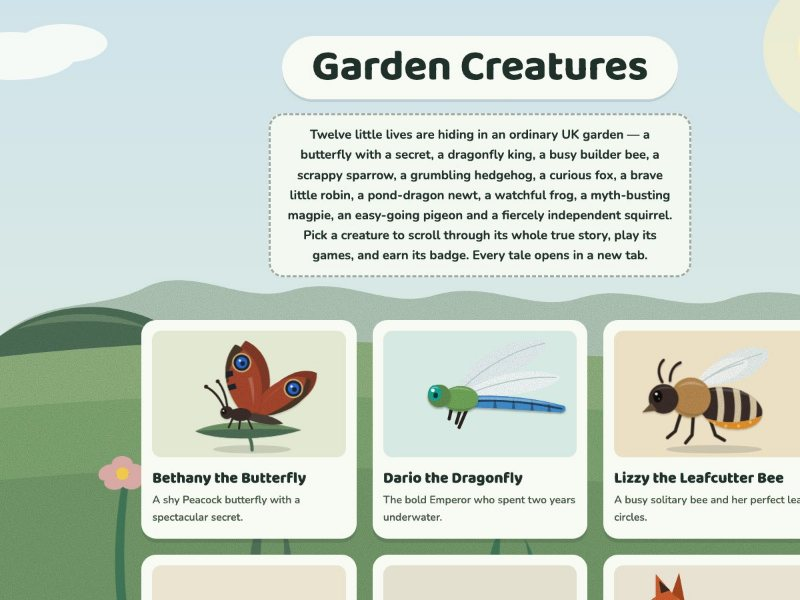
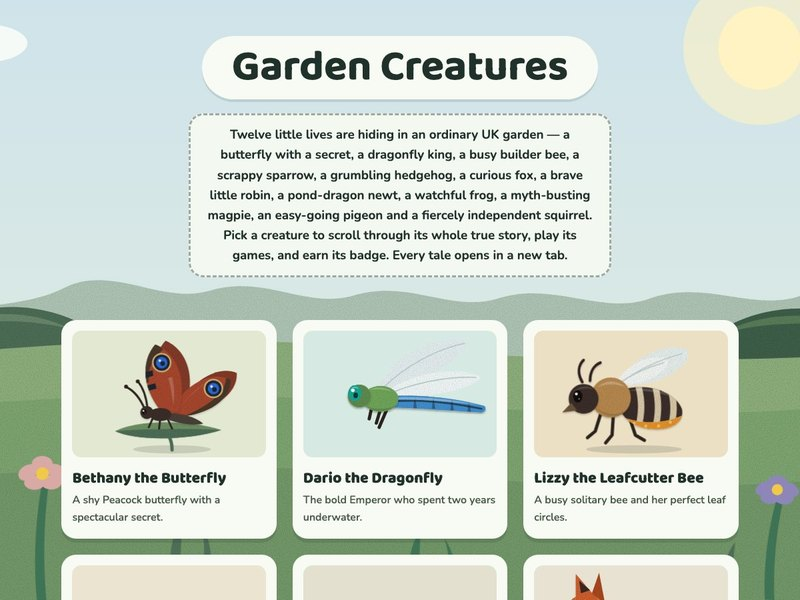
Recentre UK Garden Creatures lab thumbnail
Claude-Session: https://claude.ai/code/session_01CJsRGXUtQTrvnDXWt471hY

diff --git a/lab/cards.js b/lab/cards.js
@@ -36,7 +36,7 @@ window.LAB_CARDS.push({
     craft: 'What I make now: a set of illustrated, animated stories for children, built with Claude Code and Cowork.',
     lead: 'How I took one idea to a reusable format and tested it with children before showing it to a school.'
   },
-  thumb: '../images/uk-garden-creatures/thumb.jpg',
+  thumb: '../images/uk-garden-creatures/thumb.jpg?v=2',
   thumbAlt: 'The Garden Creatures landing page with cards for a butterfly, a dragonfly and a leafcutter bee on a green hill',
   status: 'In testing',
   updated: '2026-11-18'

diff --git a/lab.html b/lab.html
@@ -40,7 +40,7 @@
   </div>
 </footer>
 <script src="./main.js?v=20261120f"></script>
-<script src="./lab/cards.js?v=20261118b"></script>
+<script src="./lab/cards.js?v=20261120b"></script>
 <script>
 (function () {
   var list = document.getElementById('lab-list'), cards = window.LAB_CARDS || [];
